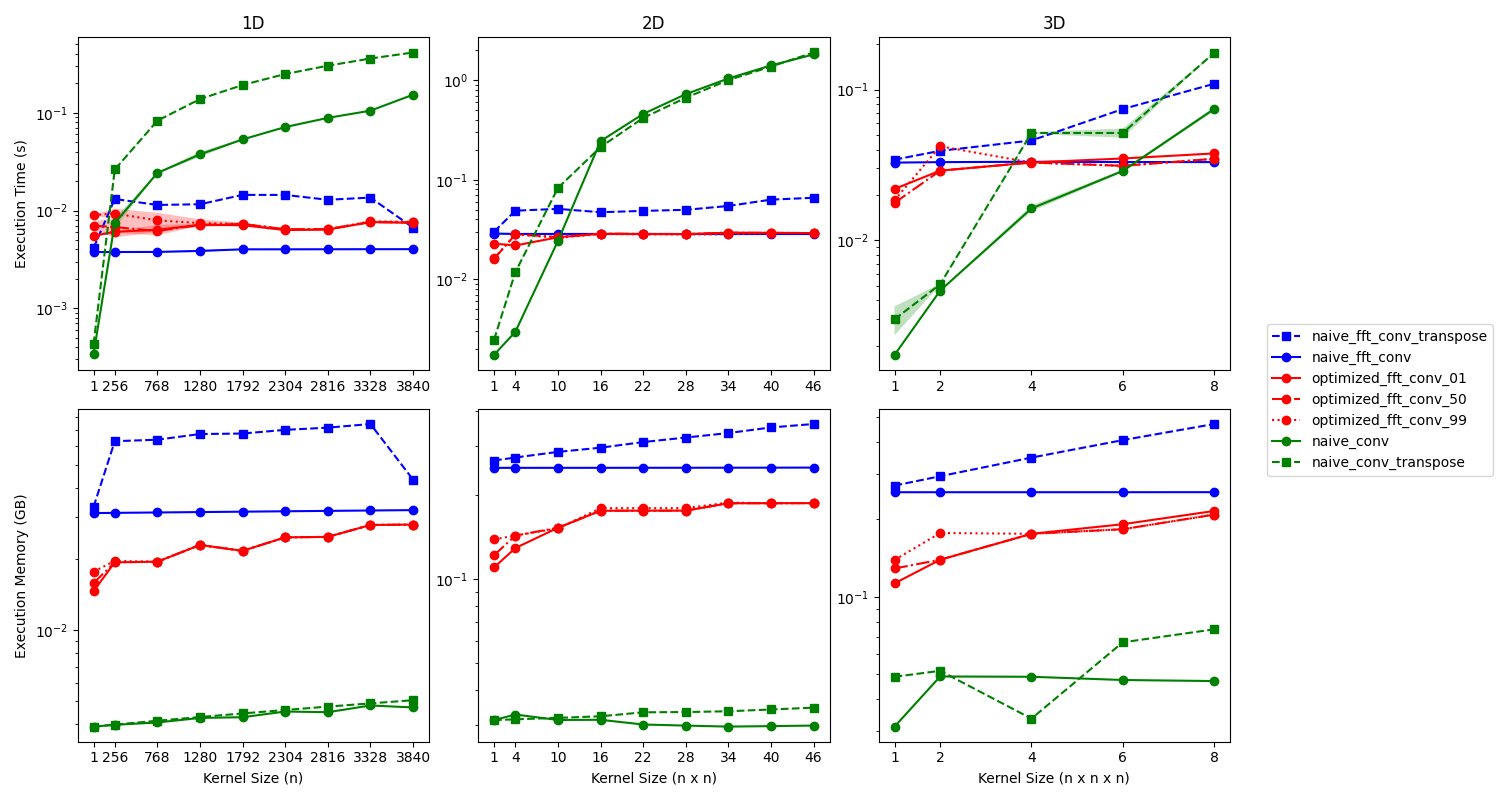
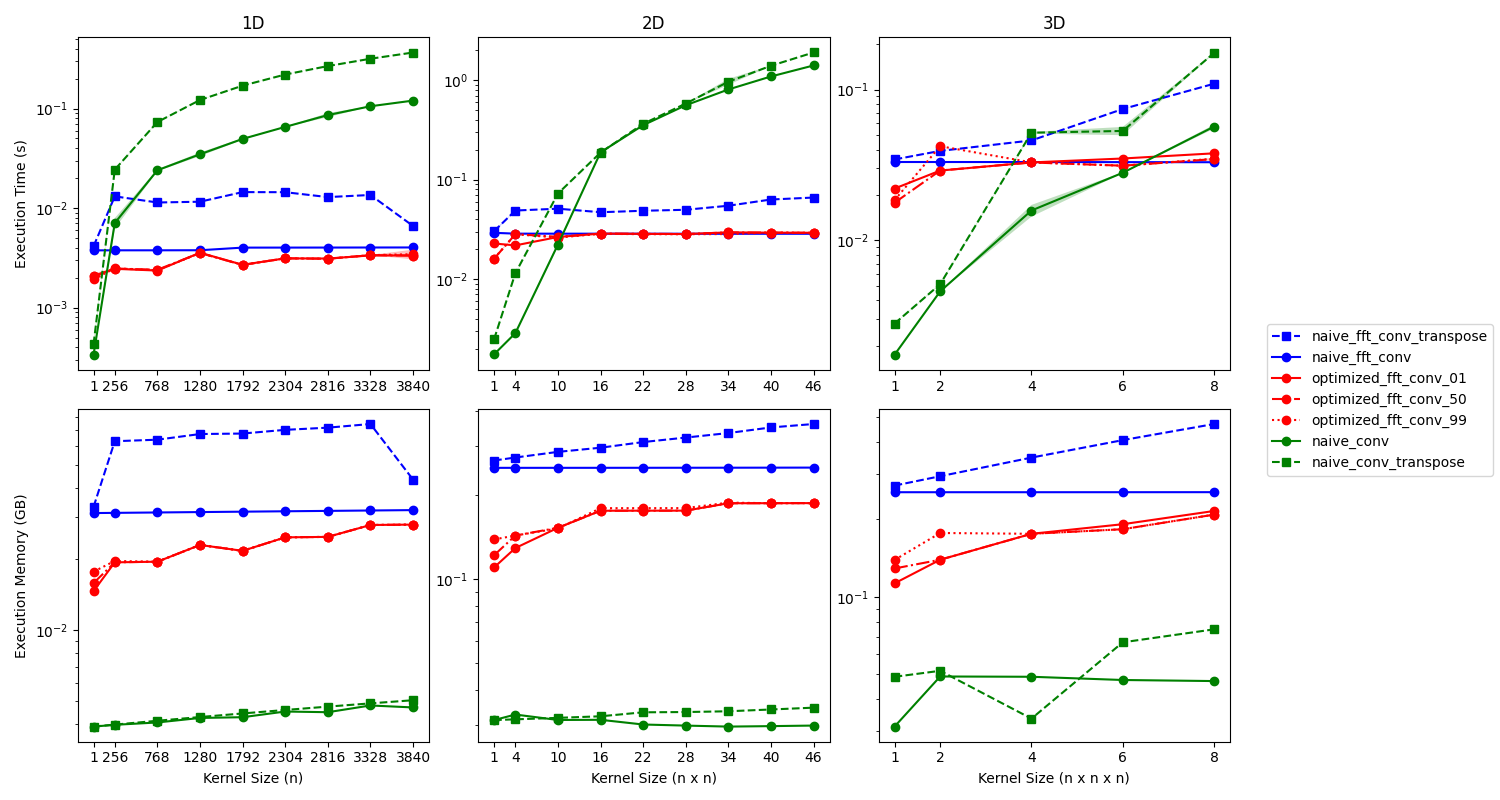
Speed improvement for large dimensions

diff --git a/fft_conv_pytorch/optimized.py b/fft_conv_pytorch/optimized.py
@@ -167,14 +167,50 @@ def opt_control(
     return np.asarray(list(map(lambda x, y: x[y], size_candidate, index)))
 
 
-def Dblock(tensor: Tensor, K, TRG, ST, SSC, JMP, SBC, BSZ):
-    # B C H W -> B C HSSC HSBC HBSZ WSSC WSBC WBSZ
-    def chunk_iter(N, max):
-        for i in range(N // max):
-            yield i, max
-        if N % max:
-            yield N // max, N % max
+# @numba.njit()
+# def Dblock_indexing(section_element_count, valid_blocksize, stride, result):
+#     rindex = 0
+#     pindex = 0
+#     for i, SEC in enumerate(section_element_count):
+#         k_start = (stride - rindex % stride) % stride
+#         ops = min(result.shape[1] - pindex, (SEC - k_start) // stride)
+#         end = pindex + ops
+#         result[0, pindex:end] = i
+#         np.divmod(
+#             np.arange(k_start, ops * stride + k_start, stride),
+#             valid_blocksize,
+#             result[1, pindex:end],
+#             result[2, pindex:end],
+#         )
+#         pindex = end
+#         rindex += SEC
 
+
+@numba.njit()
+def Dblock_indexing(section_case, valid_blocksize, stride, result):
+    rindex = 0
+    pindex = 0
+    for i, SC in enumerate(section_case):
+        for j in range(SC // valid_blocksize + 1):
+            sub_block_ops = min(valid_blocksize, SC - j * valid_blocksize)
+            k_start = (stride - rindex % stride) % stride
+            sub_ops = max(0, (sub_block_ops - k_start + stride - 1) // stride)
+            sub_ops = min(sub_ops, result.shape[1] - pindex)
+            end = pindex + sub_ops
+            result[0, pindex:end] = i
+            result[1, pindex:end] = j
+            result[2, pindex:end] = np.arange(
+                k_start, sub_ops * stride + k_start, stride
+            )
+            pindex += sub_ops
+            rindex += sub_block_ops
+            if result.shape[1] == pindex:
+                return
+
+
+@torch.no_grad()
+def Dblock(tensor: Tensor, K, TRG, ST, SSC, JMP, SBC, BSZ):
+    # B C H W -> B C HSSC HSBC WSSC WSBC HBSZ WBSZ
     def reorder(X):
         nonlocal n
         core = [4 + i * 3 for i in range(n)]
@@ -187,45 +223,28 @@ def Dblock(tensor: Tensor, K, TRG, ST, SSC, JMP, SBC, BSZ):
     stride, T = T[:2], T[2:]
     merge_index = [slice(None)] * 2
     for i, t in enumerate(T):
+        valid_blocksize = BSZ[i] - K[i] + 1
         size.append(SSC[i])
         size.append(SBC[i])
         size.append(BSZ[i])
         stride.append(t * JMP[i])
-        stride.append(t * (BSZ[i] - K[i] + 1))
+        stride.append(t * valid_blocksize)
         stride.append(t)
-
-        max_reuse = [SBC[i] * (BSZ[i] - K[i] + 1), BSZ[i] - K[i] + 1, 1]
-        section_case = [JMP[i]] * (SSC[i] - 1) + [
-            S[i] - (K[i] - 1) - JMP[i] * (SSC[i] - 1)
-        ]
-        indexing = [[] for _ in range(3)]
-        for i1, N1 in enumerate(section_case):
-            indexing[0] += [i1] * N1
-            for i2, N2 in chunk_iter(N1, max_reuse[1]):
-                indexing[1] += [i2] * N2
-                # for i3, N3 in chunk_iter(N2, max_reuse[2]):
-                #     indexing[2] += [i3]* N3
-                indexing[2] += list(range(N2))
+        section_element_count = [JMP[i]] * (SSC[i] - 1) + [valid_blocksize * SBC[i]]
+        npresult = np.empty([3, (TRG[i] + ST[i] - 1) // ST[i]], dtype=np.int64)
+        ptresult = tensor.new_empty(npresult.shape, dtype=torch.long)
+        Dblock_indexing(
+            np.array(section_element_count), valid_blocksize, ST[i], npresult
+        )
+        ptresult.copy_(torch.from_numpy(npresult), non_blocking=True)
         index_shape = [[1, -1][i == idx] for idx in range(n)]
-        merge_index += [
-            torch.tensor(IDX[: TRG[i] : ST[i]])
-            .to(tensor.device, non_blocking=True)
-            .reshape(index_shape)
-            for IDX in indexing
-        ]
+        merge_index += ptresult.reshape(3, *index_shape)
     size, stride, merge_index = map(reorder, [size, stride, merge_index])
     return tensor.as_strided(size, stride), merge_index
 
 
 def Mblock(tensor: Tensor, merge_index):
     return tensor[merge_index]
-    # ops_index = [slice(None)] * 2
-    # n = (tensor.ndim - 2) // 3
-    # for i, IDX in enumerate(merge_index):
-    #     eff_dim = i // 3
-    #     index_shape = [[1, -1][eff_dim == idx] for idx in range(n)]
-    #     ops_index.append(np.array(IDX).reshape(index_shape))
-    # return tensor[ops_index]
 
 
 def fft_conv(

diff --git a/setup.py b/setup.py
@@ -24,7 +24,7 @@ setup(
     description="Implementation of 1D, 2D, and 3D FFT convolutions in PyTorch.",
     long_description=open("README.md").read(),
     long_description_content_type="text/markdown",
-    install_requires=["numpy", "torch>=1.8"],
+    install_requires=["numba", "numpy", "torch>=1.8"],
     extras_require={"test": ["black", "flake8", "isort", "pytest", "pytest-cov"]},
     classifiers=[
         "Programming Language :: Python :: 3",

diff --git a/doc/scripts/generate_benchmark_plot.py b/doc/scripts/generate_benchmark_plot.py
@@ -24,7 +24,7 @@ def _get_conv_inputs(
     out_channels: int = 8,
     groups: int = 8,
 ):
-    factory_kwargs = {'device': "cuda", "dtype": torch.float32}
+    factory_kwargs = {"device": "cuda", "dtype": torch.float32}
     dims = ndim * [input_size]
     signal = torch.randn(batch_size, in_channels, *dims, **factory_kwargs)
 
